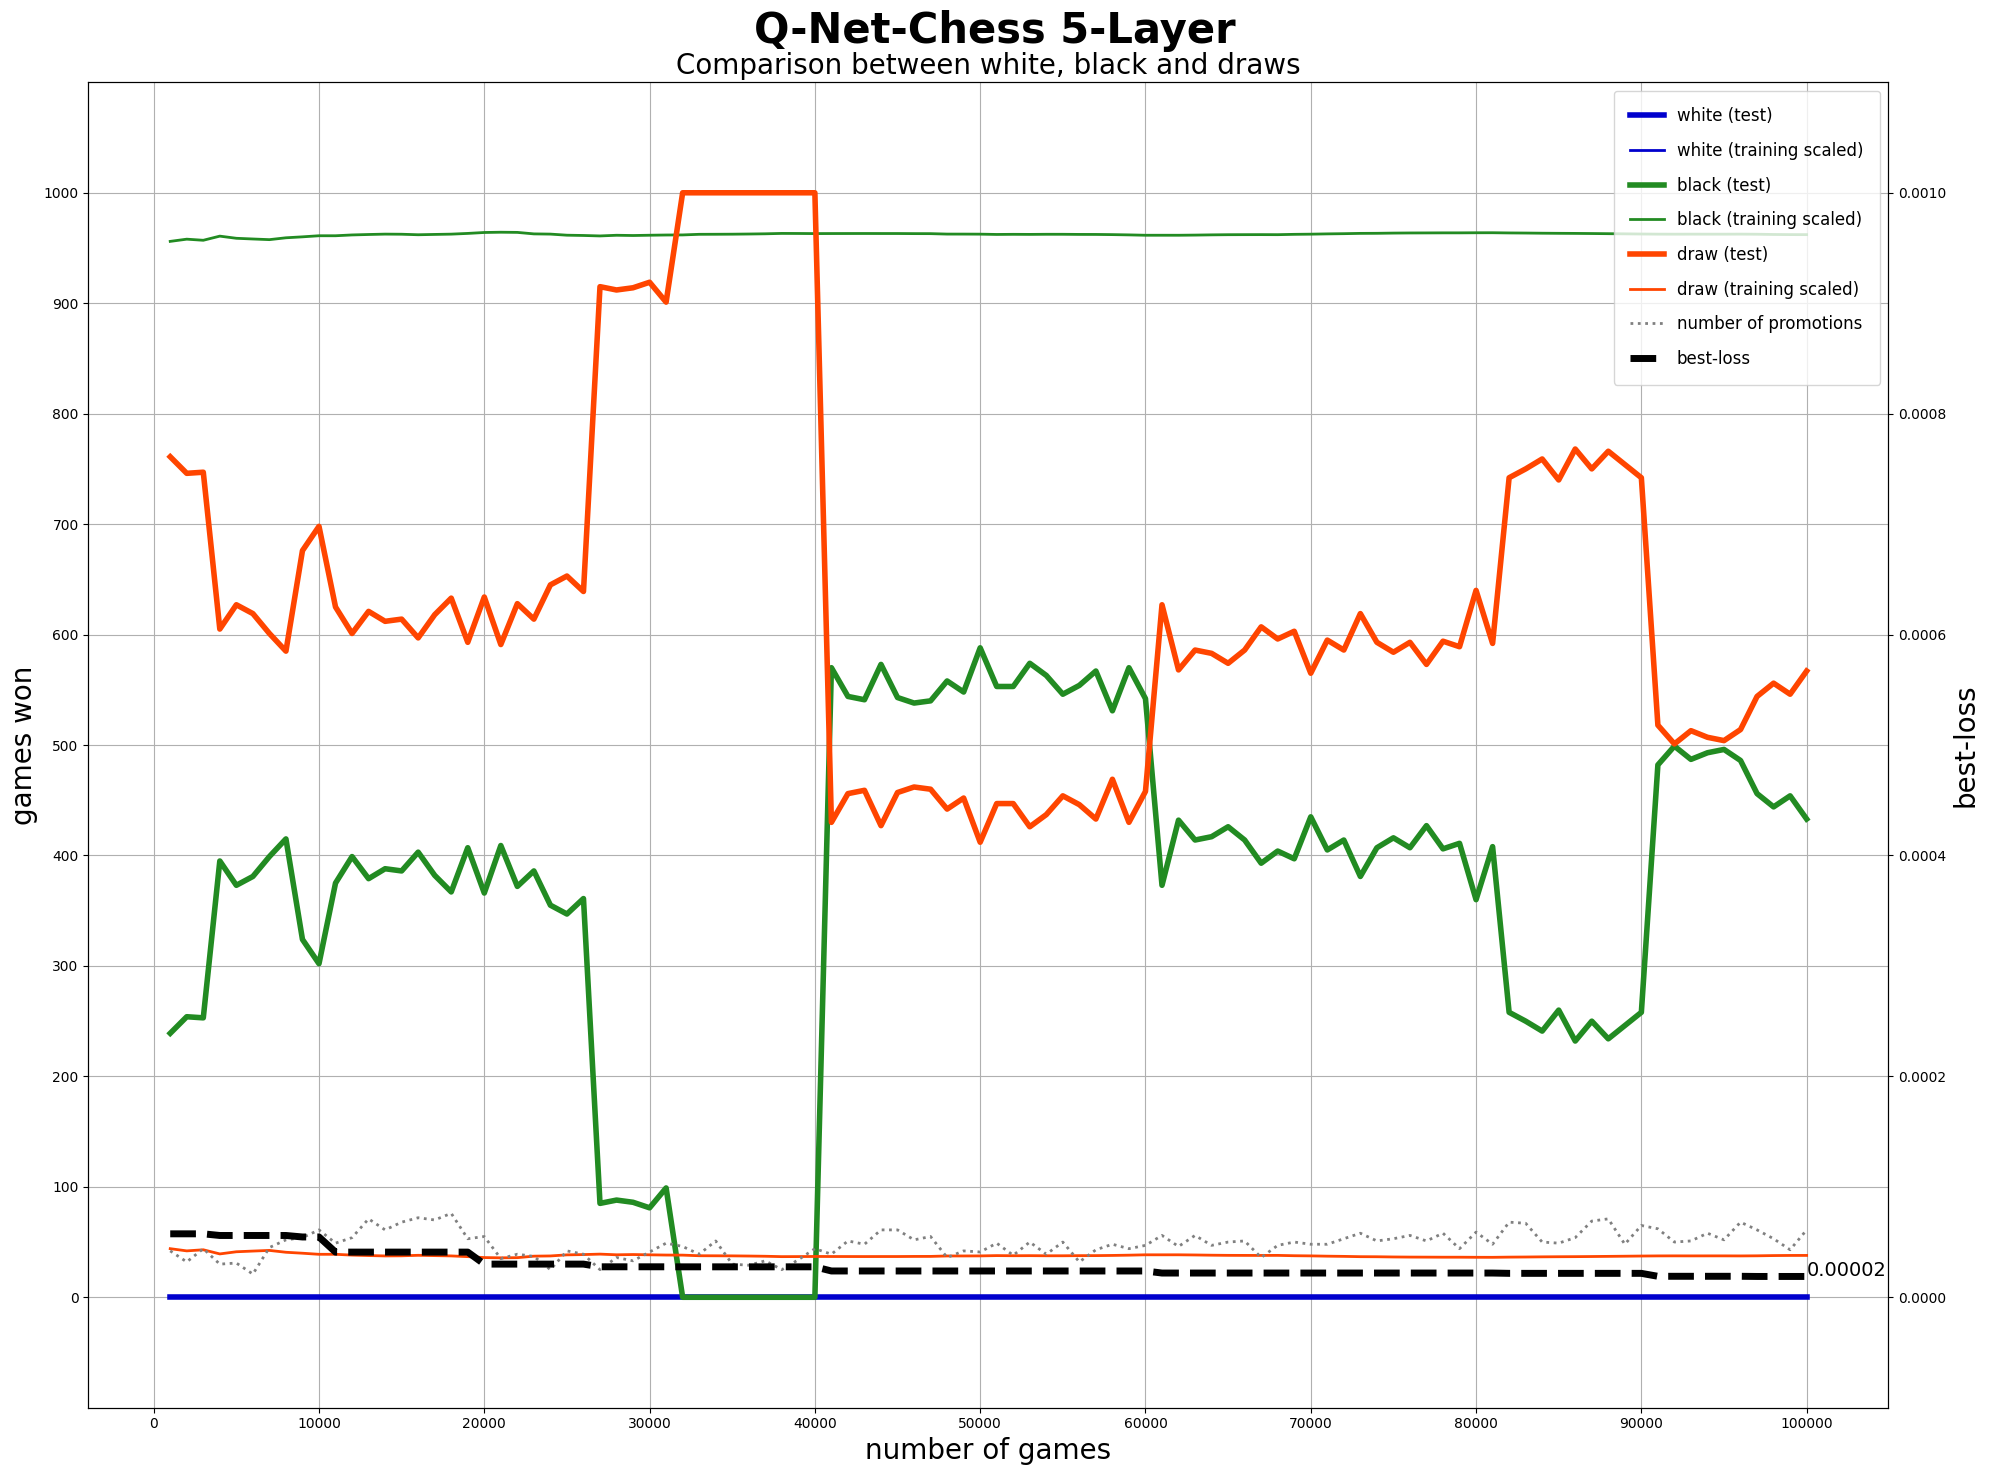
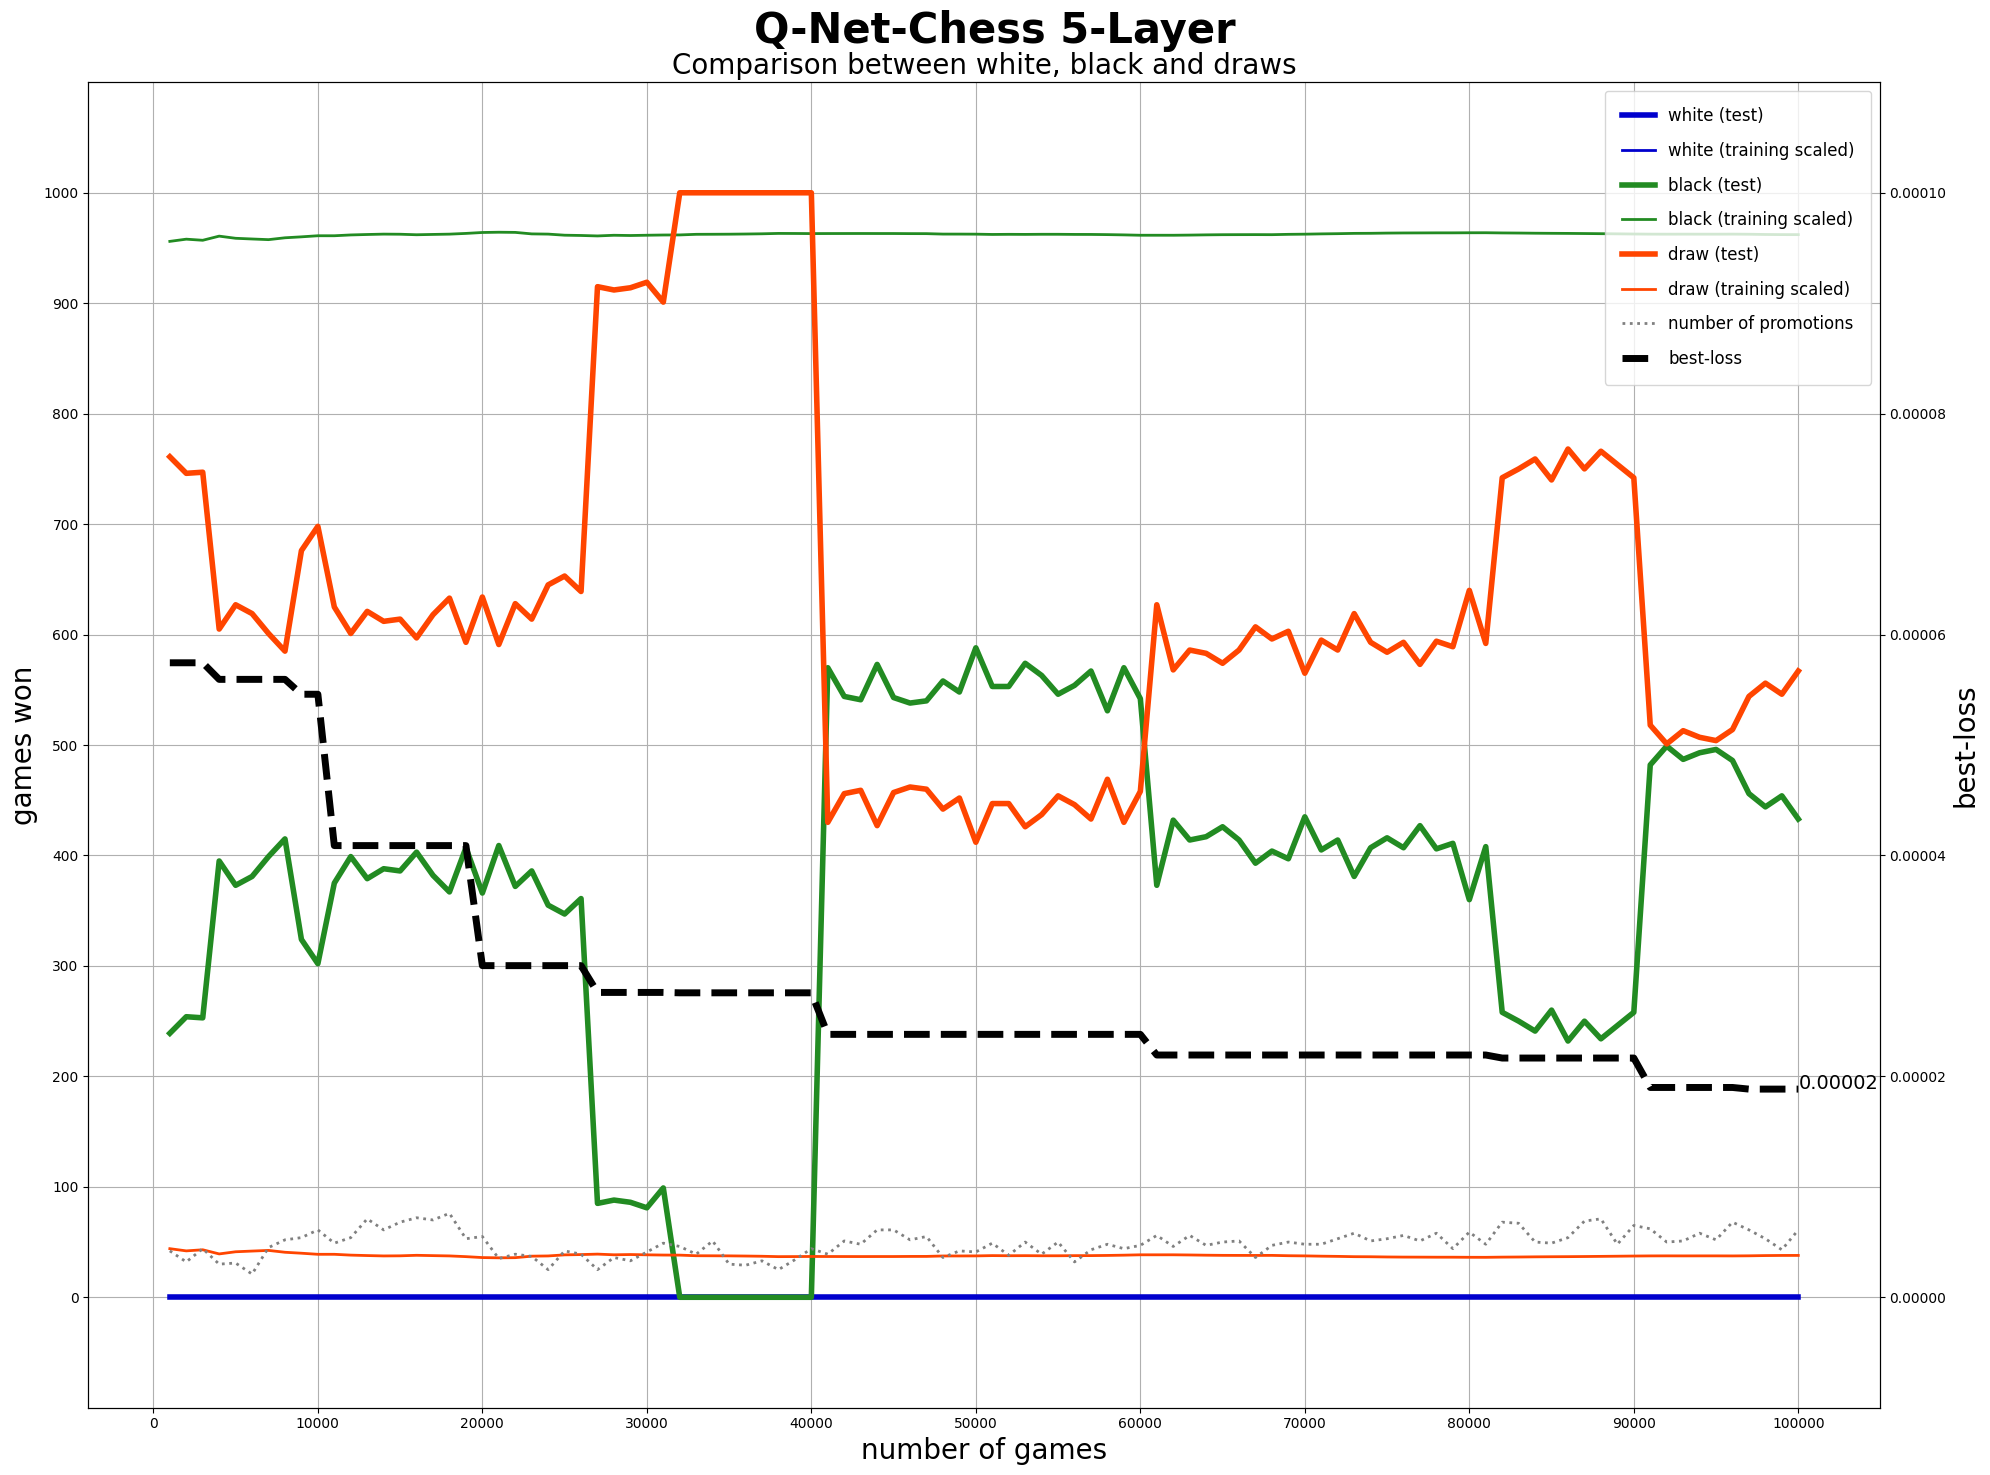
loss curve for 5-layer model adapted

diff --git a/src/rl/rl-analysis.py b/src/rl/rl-analysis.py
@@ -5,7 +5,7 @@ import seaborn as sns
 import numpy as np
 
 
-def draw_dataframe(name, title, best_loss_scaler, chess):
+def draw_dataframe(name, title, best_loss_scaler, chess, five_layer):
 
     df = pd.read_csv("statistics/" + name + ".csv", delimiter="\t", header=0)
     df.drop(df.tail(1).index, inplace=True)  # drop last row
@@ -31,7 +31,10 @@ def draw_dataframe(name, title, best_loss_scaler, chess):
 
     if best_loss_scaler is not None:
         if chess:
-            axes2.set_ylim([-0.0001, 0.0011])
+            if five_layer:
+                axes2.set_ylim([-0.00001, 0.00011])
+            else:
+                axes2.set_ylim([-0.0001, 0.0011])
             sns.lineplot(data=df, y='promotions', x='#of-trainings', ax=axes, color=colors['gray'], linestyle='dotted', lw=2, label="number of promotions")
         else:
             axes2.set_ylim([-1, 11])
@@ -101,8 +104,8 @@ def draw_optimizer_loss_function_statistics():
     plt.savefig('optimizer-vs-loss-function.png', bbox_inches='tight')
 
 
-draw_dataframe("tic-tac-toe-statistics-q-table", "Q-Table-Tic-Tac-Toe", None, False)
-draw_dataframe("tic-tac-toe-statistics-q-net", "Q-Net-Tic-Tac-Toe", 100, False)
-draw_dataframe("chess-statistics-q-net-3-layer", "Q-Net-Chess 3-Layer", 1000000, True)
-draw_dataframe("chess-statistics-q-net-5-layer", "Q-Net-Chess 5-Layer", 1000000, True)
+draw_dataframe("tic-tac-toe-statistics-q-table", "Q-Table-Tic-Tac-Toe", None, False, False)
+draw_dataframe("tic-tac-toe-statistics-q-net", "Q-Net-Tic-Tac-Toe", 100, False, False)
+draw_dataframe("chess-statistics-q-net-3-layer", "Q-Net-Chess 3-Layer", 1000000, True, False)
+draw_dataframe("chess-statistics-q-net-5-layer", "Q-Net-Chess 5-Layer", 10000000, True, True)
 draw_optimizer_loss_function_statistics()
